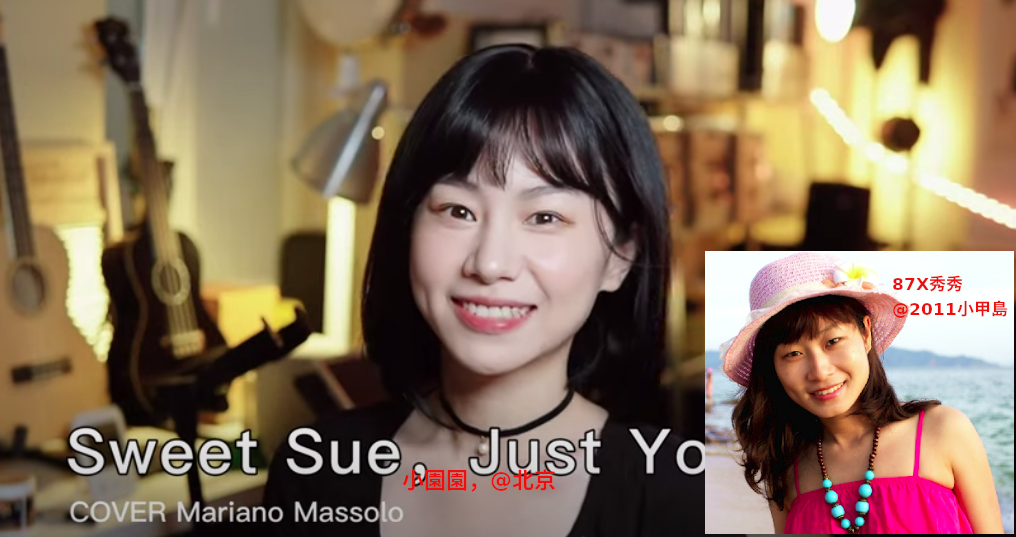
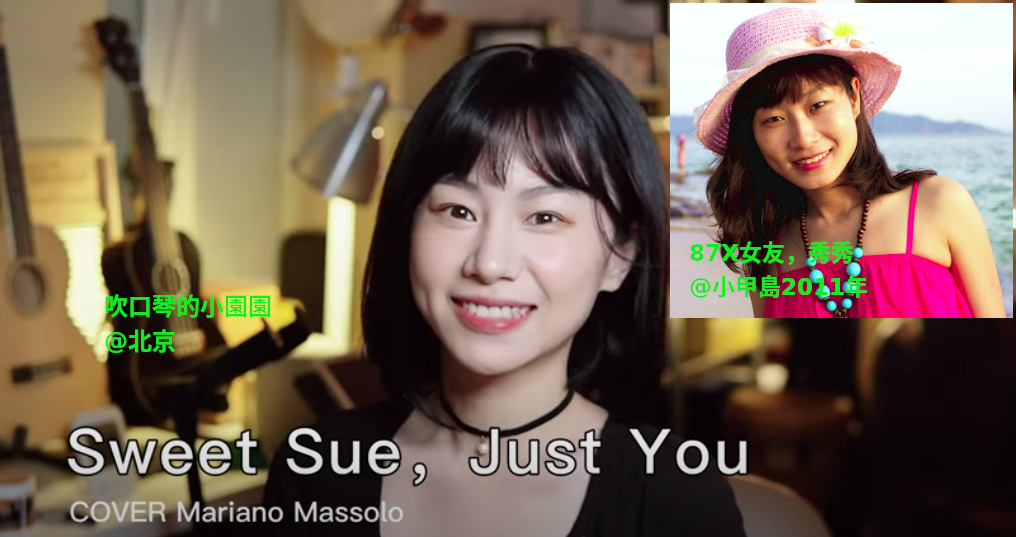
2023.1.20.15.52

diff --git a/md_and_html/心學新解.html b/md_and_html/心學新解.html
@@ -1326,10 +1326,12 @@ https://www.bilibili.com/video/BV1Ti4y1M7sG/</p>
   </div>
   <p align="center" style="margin:0px;"> 憶父親 </p> 
   </div> <!-- end pictureWrapper_div -->
+</li>
+<li>
+<p><font size=5><strong>18...(18<sub>3</sub>）</strong> <strong>的姐姐蓮金與</strong> <strong>18..(18<sub>2</sub>)的伍小郎</strong></font></p>
 <p>其實，我真名，或說我本名叫<em><strong>伍金和,諧音金荷，荷花也是蓮花</strong></em>，五歲時因村里同名人去世，父母覺得不吉利，於是改名爲現在這名字。我出生於1983年3月2日，農曆正月 <strong>（<strong>18..</strong>）</strong>  。屬豬，<em><strong>金魚座</strong></em>，從小是個<em><strong>放牛娃</strong></em>。在道生一，一生二，二生三，三生無窮的數字里，我應該還是二，只愛平凡，未變成上帝之兵三。我不稀罕什麼三，六，九(<a href="https://youtu.be/9GYRtpvUMnI"><strong>「18...」</strong></a><sup><em><strong>鄧紫棋演唱</strong></em></sup>)。他也別指望有機會。</p>
 <p>歷史上很多數字鴉片狂，以數字 <strong>（<strong>18</strong>）</strong> 爲快樂，有些人用假名喜歡用李 <strong>（十八子=李，即1+8=9...（王）的兒子）</strong>,但我卻不是真正的快樂(<a href="https://youtu.be/9GYRtpvUMnI"><strong>「18...」</strong></a><sup><em><strong>鄧紫棋演唱</strong></em></sup>)<a href="https://youtu.be/a7phBQ3nQL0"><em><strong>「你不是真正的快樂」</strong></em><sub>鄧子棋翻唱版本</sub></a>，而是真正的痛苦 <strong>（<strong>18..</strong>）</strong>！人類是一種真正痛苦的存在，雖然如此，但如果說人生能得一人同生死，面對死亡亦是一種幸福！</p>
-<p>我大學同學給我一個外號，就是歷史上家喻戶曉且響噹噹的大人物：<em><strong>伍大郎</strong></em>！好討厭那個窩<strong>饢</strong>沒用的阿餅哥啊，他爲什麼也那麼矮。<u>偏巧的是，我家也有一個<em><strong>金蓮</strong></em>，只是要反過來讀，<em><strong>她叫伍蓮金</strong></em>，家里排行第二，也是正月（<a href="https://youtu.be/9GYRtpvUMnI">「<strong>18...</strong>」</a>），不幸的是約摸五歲左右幫我三姐（伍美金）洗尿布時不慎掉入村裏的河裏。因爲她走了，所以作爲排行老四的我出生在這個家裏。此生我若有什麼幸福的話，那都是建立在她的不幸之上的。或許是木匠其內疚，給我取名叫<em><strong>金和，諧音金荷，蓮花即荷花。</strong></em></u></p>
-  </br>
+<p>我大學同學給我一個外號，就是歷史上家喻戶曉且響噹噹的大人物：<em><strong>伍大郎</strong></em>！好討厭那個窩<strong>饢</strong>沒用的阿餅哥啊，他爲什麼也那麼矮。<u>偏巧的是，我家也有一個<em><strong>金蓮</strong></em>，只是要反過來讀，<em><strong>她叫伍蓮金</strong></em>，家里排行第二，也是正月（<a href="https://youtu.be/9GYRtpvUMnI">「<strong>18...</strong>」</a>），不幸的是約摸五歲左右幫我三姐（<strong>伍美金</strong>,現居廈門）洗尿布時不慎掉入村裏的河裏。因爲她走了，所以作爲排行老四的我出生在這個家裏。此生我若有什麼幸福的話，那都是建立在她的不幸之上的。或許是木匠其內疚，給我取名叫<em><strong>金和，諧音金荷，蓮花即荷花。</strong></em></u> </br></p>
   <!-- image area, flex to make it center,it may not work for github, for html and pdf rendering only -->
   <div align="center" style="page-break-inside: avoid; margin-top:1px; margin-bottom:1px;"> <!-- pictureWrapper_div add this only to make the bendan github understand -->
   <div class="ImageWrapperFlex" >
@@ -1469,10 +1471,12 @@ https://www.bilibili.com/video/BV1Ti4y1M7sG/</p>
 <p><em><strong><p align="center" style="margin:0px;">2018年3月30日臺灣新生代歌手告別過去的自己，簽約新公司，迎接美好的未來 vs 2018年GEM爲了擺脫經紀人的約束成立自己的工作室，不惜和老東家打官司，一場疫情之後，2022帶着大姨媽的紅海奇蹟簽約新公司,更名Gloria。那個2021年她不得不面對，卻依然要潛下去的是什麼深淵？</p></strong></em></p>
   </div> <!-- end pictureWrapper_div --> 
   </br>
+  </br>
 </li>
 <li>
-<p><font size=5><strong>問：</strong></font></p>
-<p><span> <font size=5><em><strong>18...</strong></em> （18<sub>3</sub>）</font>   究竟是誰？ </span></p>
+<p><font size=5><strong>像鬼一樣的神似&quot;前情人&quot;。問：</strong></font></p>
+<p><span> <font size=5><em><strong>18... （18<sub>3</sub>）</font>   究竟是誰？</strong></em></span></p>
+  <p align=center><sub> 無論變成什麼模樣，我們互相都認得出來！ </sub> </p>
   <!-- image area, flex to make it center,it may not work for github, for html and pdf rendering only -->
   <div align="center" style="page-break-inside: avoid; margin-top:1px; margin-bottom:1px;"> <!-- pictureWrapper_div add this only to make the bendan github understand -->
   <div class="ImageWrapperFlex" >
@@ -1480,7 +1484,7 @@ https://www.bilibili.com/video/BV1Ti4y1M7sG/</p>
   <image class="FlexImage"   src='./images/514.png'/>
   <div class="FlexSide" ></div>
   </div>
-<p><span align="center" style="margin:0px;"> <font size=4><em><strong>年年十八的陳</strong></em>園*<strong>園，乳名:菁菁，此菁菁非彼晶晶，也不姓白！</strong> </font><span> </br>神形酷似我87前女友，也算是這奇怪世界的一個奇蹟吧。這一個個奇怪的事情，讓我有時懷疑自己是否已經死了進入了一個平行的世界！不然正常的世界怎麼會這樣！但誰又知道正常的世界是怎麼一個世界！謊言如吹泡沫一樣，一個接着一個。</span></p>
[1 lines of base64/hex data omitted]
   </br>
   </div>
   <!-- image area, flex to make it center,it may not work for github, for html and pdf rendering only -->
@@ -1501,9 +1505,29 @@ https://www.bilibili.com/video/BV1Ti4y1M7sG/</p>
   </div>
 <p><span align="center" style="margin:0px;"> <strong>吹口琴的小園園與87X秀秀，形神皆似，連酒窩都基本一樣</strong>，也是第一次見識了，什麼叫做神似的奇蹟，看着她吹口琴的影片，有種<a href="https://youtu.be/XnFJxvvIWdc"><strong>「似是故人來」</strong></a>的幻覺。也更難免深深深信這世界真的像是虛擬的！儘管自己極力希望自己不是在這樣一個世界里！活了大半輩子發現自己所處的世界是個虛擬的，那會是種怎樣的大煞風景！我希望自己是在以前的認知世界里：沒有神，沒有外星人，沒有鬼，只有平平凡凡生老病死的一生。但世界究竟是怎麼樣，我們沒得選，只有接受！寧願接受、面對和改變現實，而不活在永久的謊言里。要改變認知的時候，就要勇敢決絕地改變！ </span></p>
   </div>
+  <!-- image area, flex to make it center,it may not work for github, for html and pdf rendering only -->
+  <div align="center" style="page-break-inside: avoid; margin-top:1px; margin-bottom:1px;"> <!-- pictureWrapper_div add this only to make the bendan github understand -->
+  <div class="ImageWrapperFlex" >
+  <div class="FlexSide"  ></div>
+  <image class="FlexImage"   src='./images/吹口琴的小園園2.png'/>
+  <div class="FlexSide" ></div>
+  </div>
+<p><span align="center" style="margin:0px;"> 喝酒喫餅乾的番薯園。在客語里，常有罵人大番薯的。 </span></p>
+  </div>
+  <!-- image area, flex to make it center,it may not work for github, for html and pdf rendering only -->
+  <div align="center" style="page-break-inside: avoid; margin-top:1px; margin-bottom:1px;"> <!-- pictureWrapper_div add this only to make the bendan github understand -->
+  <div class="ImageWrapperFlex" >
+  <div class="FlexSide"  ></div>
+  <image class="FlexImage"   src='./images/啓屎錄.png'/>
+  <div class="FlexSide" ></div>
+  </div>
+<p><span align="center" style="margin:0px;"> 公元2023年7月16日，鄧紫棋捧着一坨那個，要大家笑納！聽姐姐講「啓示錄」你準掉天坑見鬼！從今天開始聽我講解解歌曲背後的暗線，準讓你看清神是什麼鬼??？！！！ </span></p>
+  </div>
+  </br> 
+  </br>
 </li>
 <li>
-<p><font size=4><strong>再見(8)是什麼意思 ？</strong></font></p>
+<p><font size=5><strong>再見(8)是什麼意思 ？</strong></font></p>
  <!-- image area, flex to make it center,it may not work for github, for html and pdf rendering only -->
  <div align="center" style="page-break-inside: avoid; margin-top:1px; margin-bottom:1px;"> <!-- pictureWrapper_div add this only to make the bendan github understand -->
  <div class="ImageWrapperFlex" >
@@ -1743,7 +1767,7 @@ https://www.bilibili.com/video/BV1Ti4y1M7sG/</p>
 <p><span>一個梨渦淺笑，更勝千言萬語。 </br> 好巧，我也一樣，總是<strong>對不上焦</strong>，呵呵。天涯有知音一樣，雖然我未文字言說掉眼鏡，也沒同別人描述過當下看世界的狀況。腦控即是千里眼、順風耳心、靈相通的超能力。 </br> <a href="https://www.ixigua.com/7122747256075846152">「愛的代價」口琴曲</a> </span></p>
   </br>
   </div>
-<p>憶起去年2022年金秋十月，在濟州島看到兩歐美女子中間走着一位靚麗的東方美女，雖然自去年2022年夏天眼鏡掉海裏了，看什麼都失去了焦點，整個世界朦朦朧朧只看個差不多，我也成了差不多先生，即使只是看個差不多模樣，看不見漂亮的眼睛，但依然可以感覺到那位東方妹子好靚，只可惜我打不過她兩邊那兩個歐美妹子，不然真想搶她來做丐幫妃子啊，摟着個美女要飯，那應該是前無古人後無來者吧。作爲一名資深的乞丐，居然沒個三妻四妾，真是失敗！應該考慮練習降蟲十八掌了！</br> </br> 可惜啊，地球只是一粒沙！</p>
+<p>憶起去年2022年金秋十月，在濟州島看到兩歐美女子中間走着一位靚麗的東方美女，雖然自去年2022年夏天眼鏡掉海裏了，看什麼都失去了焦點，整個世界朦朦朧朧只看個差不多，我也成了差不多先生，即使只是看個差不多模樣，看不見漂亮的眼睛，卻依然可以感覺到那位東方細妹好靚，只可惜我打不過她兩邊那兩個歐美妹子，不然真想搶她來做丐幫妃子啊，摟着個美女要飯，那應該是前無古人後無來者吧。作爲一名資深的乞丐，居然沒個三妻四妾，真是失敗！應該考慮練習降蟲十八掌了！</br> </br> 可惜啊，地球只是一粒沙！</p>
   </br> 
   <!-- image area, flex to make it center,it may not work for github, for html and pdf rendering only -->
   <div align="center" style="page-break-inside: avoid; margin-top:1px; margin-bottom:1px;"> <!-- pictureWrapper_div add this only to make the bendan github understand -->
@@ -1861,6 +1885,15 @@ https://www.bilibili.com/video/BV1Ti4y1M7sG/</p>
 </ul>
 </li>
 </ul>
+</li>
+<li>
+<p><font size=5><strong>與此無關的故亡</strong></font></p>
+<p><a href="https://youtu.be/9k_qrnQpwR8"><strong>「where did you go」</strong></a></p>
+<p>前幾天，1月17日，見棋IG動態在發其外公過身的弔唁圖文。一個蠻健壯的老帥哥，躲過了上海封城艱苦歲月，卻沒能和家人共度兔年新春。2022年10月，突然接到堂哥連華哥過身的噩耗，那可是正直壯年吶。生命無常，我相信我心臟還足夠強大來抵抗，也有足夠的時間，把那隻躲在屎坑里的烏龜拖出來曬曬太陽！如果可以，再把牠埋進那個牠自己挖的屎坑里！</p>
+<p>倘若有幸還有人給我辦葬禮，我希望大家載歌打鼓，歡送掃把星！這世界有畜生可能真不如另一個地方，死亡或許就是一種星際旅行，多見識見識這真實的世界，用客家人的俗語說就是：看看外面的大蛇屙屎！未必不是件幸福的結局。何必用人間被洗腦的認知來看待死亡！如果人間是一趟另一個世界之你的成年禮，那死亡就是順利畢業啊，值得彈冠相慶！</p>
+<p>倘若畢業還抱得美人歸，那往後餘生都是你<a href="https://youtu.be/B7BGm1uwHg0"><strong>「all about you」</strong></a>，日日如新郎！</p>
[1 lines of base64/hex data omitted]
+ </br> 
 </li>
 <li>
 <p><font size=5> <strong><a href="">小說正文</a></strong> <sub> 待續 </sub> </font></p>

diff --git a/md_and_html/心學新解.md b/md_and_html/心學新解.md
@@ -1321,15 +1321,15 @@
     <p align="center" style="margin:0px;"> 憶父親 </p> 
     </div> <!-- end pictureWrapper_div -->
 
+- <font size=5>**18...(18<sub>3</sub>）** **的姐姐蓮金與** **18..(18<sub>2</sub>)的伍小郎**</font>
+
     其實，我真名，或說我本名叫***伍金和,諧音金荷，荷花也是蓮花***，五歲時因村里同名人去世，父母覺得不吉利，於是改名爲現在這名字。我出生於1983年3月2日，農曆正月 **（**18..**）**  。屬豬，***金魚座***，從小是個***放牛娃***。在道生一，一生二，二生三，三生無窮的數字里，我應該還是二，只愛平凡，未變成上帝之兵三。我不稀罕什麼三，六，九([**「18...」**](https://youtu.be/9GYRtpvUMnI)<sup>***鄧紫棋演唱***</sup>)。他也別指望有機會。
 
     歷史上很多數字鴉片狂，以數字 **（**18**）** 爲快樂，有些人用假名喜歡用李 **（十八子=李，即1+8=9...（王）的兒子）**,但我卻不是真正的快樂([**「18...」**](https://youtu.be/9GYRtpvUMnI)<sup>***鄧紫棋演唱***</sup>)[***「你不是真正的快樂」***<sub>鄧子棋翻唱版本</sub>](https://youtu.be/a7phBQ3nQL0)，而是真正的痛苦 **（**18..**）**！人類是一種真正痛苦的存在，雖然如此，但如果說人生能得一人同生死，面對死亡亦是一種幸福！
 
- 
-    我大學同學給我一個外號，就是歷史上家喻戶曉且響噹噹的大人物：***伍大郎***！好討厭那個窩**饢**沒用的阿餅哥啊，他爲什麼也那麼矮。<u>偏巧的是，我家也有一個***金蓮***，只是要反過來讀，***她叫伍蓮金***，家里排行第二，也是正月（[「**18...**」](https://youtu.be/9GYRtpvUMnI)），不幸的是約摸五歲左右幫我三姐（伍美金）洗尿布時不慎掉入村裏的河裏。因爲她走了，所以作爲排行老四的我出生在這個家裏。此生我若有什麼幸福的話，那都是建立在她的不幸之上的。或許是木匠其內疚，給我取名叫***金和，諧音金荷，蓮花即荷花。***</u>
-    
-    </br>
-    
+
+    我大學同學給我一個外號，就是歷史上家喻戶曉且響噹噹的大人物：***伍大郎***！好討厭那個窩**饢**沒用的阿餅哥啊，他爲什麼也那麼矮。<u>偏巧的是，我家也有一個***金蓮***，只是要反過來讀，***她叫伍蓮金***，家里排行第二，也是正月（[「**18...**」](https://youtu.be/9GYRtpvUMnI)），不幸的是約摸五歲左右幫我三姐（**伍美金**,現居廈門）洗尿布時不慎掉入村裏的河裏。因爲她走了，所以作爲排行老四的我出生在這個家裏。此生我若有什麼幸福的話，那都是建立在她的不幸之上的。或許是木匠其內疚，給我取名叫***金和，諧音金荷，蓮花即荷花。***</u> </br>
+
     <!-- image area, flex to make it center,it may not work for github, for html and pdf rendering only -->
     <div align="center" style="page-break-inside: avoid; margin-top:1px; margin-bottom:1px;"> <!-- pictureWrapper_div add this only to make the bendan github understand -->
     <div class="ImageWrapperFlex" >
@@ -1545,10 +1545,15 @@
 
         </br>
 
+        </br>
 
-    - <font size=5>**問：**</font>    
+
+    - <font size=5>**像鬼一樣的神似"前情人"。問：**</font>    
         
-        <span> <font size=5>***18...*** （18<sub>3</sub>）</font>   究竟是誰？ </span>
+        <span> <font size=5>***18... （18<sub>3</sub>）</font>   究竟是誰？***</span>
+
+        <p align=center><sub> 無論變成什麼模樣，我們互相都認得出來！ </sub> </p>
+
         <!-- image area, flex to make it center,it may not work for github, for html and pdf rendering only -->
         <div align="center" style="page-break-inside: avoid; margin-top:1px; margin-bottom:1px;"> <!-- pictureWrapper_div add this only to make the bendan github understand -->
         <div class="ImageWrapperFlex" >
@@ -1557,7 +1562,7 @@
         <div class="FlexSide" ></div>
         </div>
 
-        <span align="center" style="margin:0px;"> <font size=4>***年年十八的陳***園***園，乳名:菁菁，此菁菁非彼晶晶，也不姓白！** </font><span> </br>神形酷似我87前女友，也算是這奇怪世界的一個奇蹟吧。這一個個奇怪的事情，讓我有時懷疑自己是否已經死了進入了一個平行的世界！不然正常的世界怎麼會這樣！但誰又知道正常的世界是怎麼一個世界！謊言如吹泡沫一樣，一個接着一個。</span> 
+        <span align="center" style="margin:0px;"> <font size=4>***年年十八的陳***園***園，福建廈門人士，真名： 陳方園，很霸氣側漏的名字，天圓地方，那可是古時候的金銀銅之銅孔方兄呢，古代的硬通貨，比現在的美金還硬呢！乳名:菁菁，此菁菁非彼晶晶，也不姓白！此園園也非吳三桂之彼圓圓** :D，現實生活越來越像文學之如有雷同純屬巧合了。 </font><span> </br>神形酷似我87前女友，也算是這奇怪世界的一個奇蹟吧。這一個個奇怪的事情，讓我有時懷疑自己是否已經死了進入了一個平行的世界！不然正常的世界怎麼會這樣！但誰又知道正常的世界是怎麼一個世界！謊言如吹泡沫一樣，一個接着一個。</span> </br> [祝我18「生日快樂」<sub>吹口琴的小園園</sub>](https://www.ixigua.com/7097457694398743076)
 
         </br>
 
@@ -1587,7 +1592,36 @@
 
         </div>
 
-    -  <font size=4>**再見(8)是什麼意思 ？**</font> 
+        <!-- image area, flex to make it center,it may not work for github, for html and pdf rendering only -->
+        <div align="center" style="page-break-inside: avoid; margin-top:1px; margin-bottom:1px;"> <!-- pictureWrapper_div add this only to make the bendan github understand -->
+        <div class="ImageWrapperFlex" >
+        <div class="FlexSide"  ></div>
+        <image class="FlexImage"   src='./images/吹口琴的小園園2.png'/>
+        <div class="FlexSide" ></div>
+        </div>
+
+        <span align="center" style="margin:0px;"> 喝酒喫餅乾的番薯園。在客語里，常有罵人大番薯的。 </span> 
+
+        </div>
+
+
+        <!-- image area, flex to make it center,it may not work for github, for html and pdf rendering only -->
+        <div align="center" style="page-break-inside: avoid; margin-top:1px; margin-bottom:1px;"> <!-- pictureWrapper_div add this only to make the bendan github understand -->
+        <div class="ImageWrapperFlex" >
+        <div class="FlexSide"  ></div>
+        <image class="FlexImage"   src='./images/啓屎錄.png'/>
+        <div class="FlexSide" ></div>
+        </div>
+
+        <span align="center" style="margin:0px;"> 公元2023年7月16日，鄧紫棋捧着一坨那個，要大家笑納！聽姐姐講「啓示錄」你準掉天坑見鬼！從今天開始聽我講解解歌曲背後的暗線，準讓你看清神是什麼鬼??？！！！ </span> 
+
+        </div>
+
+        </br> 
+
+        </br>
+
+    -  <font size=5>**再見(8)是什麼意思 ？**</font> 
         <!-- image area, flex to make it center,it may not work for github, for html and pdf rendering only -->
         <div align="center" style="page-break-inside: avoid; margin-top:1px; margin-bottom:1px;"> <!-- pictureWrapper_div add this only to make the bendan github understand -->
         <div class="ImageWrapperFlex" >
@@ -1913,7 +1947,7 @@
         </br>
         </div>
 
-        憶起去年2022年金秋十月，在濟州島看到兩歐美女子中間走着一位靚麗的東方美女，雖然自去年2022年夏天眼鏡掉海裏了，看什麼都失去了焦點，整個世界朦朦朧朧只看個差不多，我也成了差不多先生，即使只是看個差不多模樣，看不見漂亮的眼睛，但依然可以感覺到那位東方妹子好靚，只可惜我打不過她兩邊那兩個歐美妹子，不然真想搶她來做丐幫妃子啊，摟着個美女要飯，那應該是前無古人後無來者吧。作爲一名資深的乞丐，居然沒個三妻四妾，真是失敗！應該考慮練習降蟲十八掌了！</br> </br> 可惜啊，地球只是一粒沙！
+        憶起去年2022年金秋十月，在濟州島看到兩歐美女子中間走着一位靚麗的東方美女，雖然自去年2022年夏天眼鏡掉海裏了，看什麼都失去了焦點，整個世界朦朦朧朧只看個差不多，我也成了差不多先生，即使只是看個差不多模樣，看不見漂亮的眼睛，卻依然可以感覺到那位東方細妹好靚，只可惜我打不過她兩邊那兩個歐美妹子，不然真想搶她來做丐幫妃子啊，摟着個美女要飯，那應該是前無古人後無來者吧。作爲一名資深的乞丐，居然沒個三妻四妾，真是失敗！應該考慮練習降蟲十八掌了！</br> </br> 可惜啊，地球只是一粒沙！
 
         </br> 
 
@@ -2052,7 +2086,21 @@
                 劇中**禾女（荷女）乃蓮香**，跟***「天龍八部」*** 中阿 ***紫***之同一個女演員,即**禾女（荷女）乃蓮香**。而鄧紫棋剛好又唱了一首歌叫：「蝶戀花」，是大陸翻拍的「天龍八部」的主題曲，鄧紫棋原名詩穎，穎爲荷花，即蓮花。**這裏的巧合，只是<u>純文學聯想而已！** </u> 如有雷同，純屬巧合！這世界沒有神亦無鬼更無外星人，這整個宇宙都是人類的！人類的智商是全宇宙最至高無上的，可稱霸宇宙！萬歲，萬歲，萬萬歲！ :)
 
             </br>    
-     
+
+- <font size=5>**與此無關的故亡**</font> 
+
+    [**「where did you go」**](https://youtu.be/9k_qrnQpwR8)
+
+    前幾天，1月17日，見棋IG動態在發其外公過身的弔唁圖文。一個蠻健壯的老帥哥，躲過了上海封城艱苦歲月，卻沒能和家人共度兔年新春。2022年10月，突然接到堂哥連華哥過身的噩耗，那可是正直壯年吶。生命無常，我相信我心臟還足夠強大來抵抗，也有足夠的時間，把那隻躲在屎坑里的烏龜拖出來曬曬太陽！如果可以，再把牠埋進那個牠自己挖的屎坑里！
+
+    倘若有幸還有人給我辦葬禮，我希望大家載歌打鼓，歡送掃把星！這世界有畜生可能真不如另一個地方，死亡或許就是一種星際旅行，多見識見識這真實的世界，用客家人的俗語說就是：看看外面的大蛇屙屎！未必不是件幸福的結局。何必用人間被洗腦的認知來看待死亡！如果人間是一趟另一個世界之你的成年禮，那死亡就是順利畢業啊，值得彈冠相慶！
+
+    倘若畢業還抱得美人歸，那往後餘生都是你[**「all about you」**](https://youtu.be/B7BGm1uwHg0)，日日如新郎！ 
+
+    這夢太美了，若千萬別叫醒我！ <font size=6>:D </font>
+
+   </br> 
+
 - <font size=5> **[小說正文]()** <sub> 待續 </sub> </font>
 
     以上很多素材也真可以寫成一部小說了！一個正常的世界不可能這樣存在！我智商還正常！請告訴我這不是楚門的世界！請告訴我，我的努力和吶喊還有意義！我真不希望這世界是一個楚門的世界！那樣太沒意思了！
